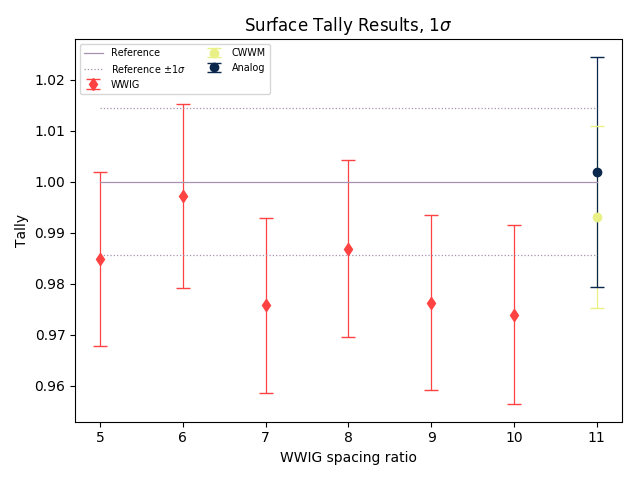
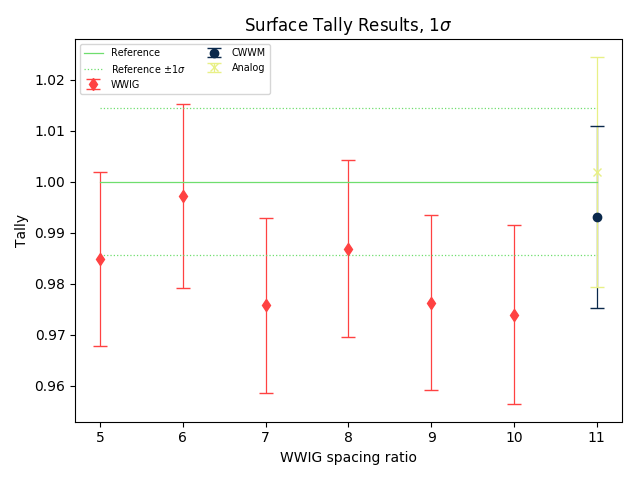
plot relative error and more consistent colors/markers

diff --git a/performance-analysis/analysis/plot_tally_data.py b/performance-analysis/analysis/plot_tally_data.py
@@ -5,13 +5,12 @@ import pandas as pd
 import glob
 import matplotlib.pyplot as plt
 
-colors = {0: '#FF4242', 1: '#235FA4', 2: '#6FDE6E', 'cwwm': '#E8F086',
-          'analog': '#0A284B', 'reference': '#A691AE', 3: '#0A284B'}
-color_r = {5: '#FF4242', 6: '#235FA4', 7: '#6FDE6E', 8: '#E8F086',
-           9: '#0A284B', 10: '#A691AE'}
-markers = {0: 'x', 1: 'x', 2: 'x', 'cwwm': 'o',
-           'analog': 'd', 'reference': 'D'}
-e_bounds = {0: '1.0000E-05', 1: '1.0000E-01', 2: '2.0000E+01', 3: 'total'}
+# colors: '#FF4242' '#A691AE' '#235FA4' '#E8F086',
+#         '#0A284B' '#6FDE6E' '#0A284B'
+colors = {'wwig': '#FF4242', 'analog': '#E8F086',
+          'cwwm': '#0A284B', 'reference': '#6FDE6E', }
+markers = {'wwig': 'd', 'cwwm': 'o',
+           'analog': 'x', 'reference': 'X'}
 ratios = [5, 6, 7, 8, 9, 10]
 dpi = 600
 lw = .9  # line width for plots
@@ -104,13 +103,13 @@ def plot_tally_ratios(df_output, pltratio=True, n_sigma=n_sigma):
         ana_y = ana_tally['tally total']
 
     plt.errorbar(tally_vals['ratio'], y, yerr=yerr,
-                 marker='d', lw=lw, capsize=cs, ls='',
-                 color=colors[0], label='WWIG')
+                 marker=markers['wwig'], lw=lw, capsize=cs, ls='',
+                 color=colors['wwig'], label='WWIG')
     plt.errorbar([xmax], cwwm_y, yerr=y_cwwm_err,
-                 marker='o', lw=lw, capsize=cs, ls='',
+                 marker=markers['cwwm'], lw=lw, capsize=cs, ls='',
                  color=colors['cwwm'], label='CWWM')
     plt.errorbar([xmax], ana_y, yerr=y_ana_err,
-                 marker='o', lw=lw, capsize=cs, ls='',
+                 marker=markers['analog'], lw=lw, capsize=cs, ls='',
                  color=colors['analog'], label='Analog')
     plt.plot([ratios[0], xmax], ref_tally_plt,
              color=colors['reference'], ls='-', lw=lw, label='Reference')
@@ -175,8 +174,8 @@ def plot_tally_refinement(df_output, df_measure, refinement,
     plt.figure()
     plt.errorbar(df[measurement], df['tally total'],
                  yerr=df['tally total']*df['error total'],
-                 marker='d', lw=lw, capsize=cs, ls='',
-                 color=colors[0], label='WWIG')
+                 marker=markers['wwig'], lw=lw, capsize=cs, ls='',
+                 color=colors['wwig'], label='WWIG')
     xmin = min(df[measurement])
     xmax = max(df[measurement])
     plt.plot([xmin, xmax], ref_tally_plt,
@@ -216,22 +215,22 @@ def plot_ww_efficiency_ratio(df_output):
     ax[0][0].plot([5, 10], cwwm_ww, marker='', ls=':',
                   label='CWWM', color=colors['cwwm'])
     ax[0][0].plot(df_wwig['ratio'], df_wwig['WW check efficiency'],
-                  marker='d', ls='', label='WWIG', color=colors[0])
+                  marker=markers['wwig'], ls='', label='WWIG', color=colors['wwig'])
     ax[0][0].set_title('Total WW Efficiency', fontsize='small')
 
     ax[0][1].plot([5, 10], cwwm_lt, marker='', ls=':', color=colors['cwwm'])
     ax[0][1].plot(df_wwig['ratio'], df_wwig['Splits < C_u'],
-                  marker='d', ls='', label='', color=colors[0])
+                  marker=markers['wwig'], ls='', label='', color=colors['wwig'])
     ax[0][1].set_title('$N_{splits}$ < C_u', fontsize='small')
 
     ax[1][0].plot([5, 10], cwwm_eq, marker='', ls=':', color=colors['cwwm'])
     ax[1][0].plot(df_wwig['ratio'], df_wwig['Splits = C_u'],
-                  marker='d', ls='', label='', color=colors[0])
+                  marker=markers['wwig'], ls='', label='', color=colors['wwig'])
     ax[1][0].set_title('$N_{splits}$ = C_u', fontsize='small')
 
     ax[1][1].plot([5, 10], cwwm_gt, marker='', ls=':', color=colors['cwwm'])
     ax[1][1].plot(df_wwig['ratio'], df_wwig['Splits > C_u'],
-                  marker='d', ls='', label='', color=colors[0])
+                  marker=markers['wwig'], ls='', label='', color=colors['wwig'])
     ax[1][1].set_title('$N_{splits}$ > C_u', fontsize='small')
 
     # labels
@@ -274,25 +273,25 @@ def plot_ww_efficiency_refine(df_output, df_rough):
     # ax[0][0].plot([xmin, xmax], cwwm_ww, marker='', ls=':',
     #               label='CWWM', color=colors['cwwm'])
     ax[0][0].plot(df_wwig['average roughness'], df_wwig['WW check efficiency'],
-                  marker='d', ls='', label='WWIG', color=colors[0])
+                  marker=markers['wwig'], ls='', label='WWIG', color=colors['wwig'])
     ax[0][0].set_title('Total WW Efficiency', fontsize='small')
 
     # ax[0][1].plot([xmin, xmax], cwwm_lt, marker='',
     #               ls=':', color=colors['cwwm'])
     ax[0][1].plot(df_wwig['average roughness'], df_wwig['Splits < C_u'],
-                  marker='d', ls='', label='', color=colors[0])
+                  marker=markers['wwig'], ls='', label='', color=colors['wwig'])
     ax[0][1].set_title('$N_{splits}$ < C_u', fontsize='small')
 
     # ax[1][0].plot([xmin, xmax], cwwm_eq, marker='',
     #               ls=':', color=colors['cwwm'])
     ax[1][0].plot(df_wwig['average roughness'], df_wwig['Splits = C_u'],
-                  marker='d', ls='', label='', color=colors[0])
+                  marker=markers['wwig'], ls='', label='', color=colors['wwig'])
     ax[1][0].set_title('$N_{splits}$ = C_u', fontsize='small')
 
     # ax[1][1].plot([xmin, xmax], cwwm_gt, marker='',
     #               ls=':', color=colors['cwwm'])
     ax[1][1].plot(df_wwig['average roughness'], df_wwig['Splits > C_u'],
-                  marker='d', ls='', label='', color=colors[0])
+                  marker=markers['wwig'], ls='', label='', color=colors['wwig'])
     ax[1][1].set_title('$N_{splits}$ > C_u', fontsize='small')
 
     # labels
@@ -334,8 +333,8 @@ def plot_fom(df_output, df_measure, refinement):
                   output_key], right_on=[refine_key])
 
     plt.figure()
-    plt.plot(df[measurement], df['fom'], marker='d', ls='',
-             color=colors[0], label='WWIG')
+    plt.plot(df[measurement], df['fom'], marker=markers['wwig'], ls='',
+             color=colors['wwig'], label='WWIG')
 
     # labels
     ylabel = 'FOM'
@@ -345,6 +344,110 @@ def plot_fom(df_output, df_measure, refinement):
     plt.ylabel(ylabel)
     plt.tight_layout()
     save_name = 'images/fom_{}.png'.format(refinement)
+    plt.savefig(save_name)
+
+
+def plot_relative_error_ratio(df_output):
+    plt.figure()
+
+    xmax = 11  # for location of the analog, reference, and cwwm results
+    ref_err = df_output.loc[df_output['mode'] == 'reference']['error total']
+    cwwm_err = df_output.loc[df_output['mode'] == 'cwwm']['error total']
+    ana_err = df_output.loc[df_output['mode'] == 'analog']['error total']
+    ref_err_plt = np.full(2, float(ref_err))
+    cwwm_err_plt = np.full(2, float(cwwm_err))
+    ana_err_plt = np.full(2, float(ana_err))
+
+    # get wwig relative errors
+    df_sub2 = df_output.loc[df_output['mode'] == 'wwig'].loc[
+        df_output['tally total'].notnull()]
+    wwig_err = df_sub2[['error total', 'ratio']]
+
+    plt.plot(wwig_err['ratio'], wwig_err['error total'],
+             marker=markers['wwig'],
+             color=colors['wwig'], ls='', lw=lw, label='WWIG')
+    plt.plot([ratios[0], xmax], ref_err_plt,
+             color=colors['reference'], ls=':', lw=lw, label='Reference')
+    plt.plot([ratios[0], xmax], cwwm_err_plt,
+             color=colors['cwwm'], ls=':', lw=lw,
+             label='CWWM')
+    plt.plot([ratios[0], xmax], ana_err_plt,
+             color=colors['analog'], ls=':', lw=lw, label='Analog')
+
+    # labels
+    ylabel = 'Relative Error'
+    xlabel = 'WWIG spacing ratio'
+    title = 'Surface Tally Relative Error'
+    plt.title(title)
+    plt.xlabel(xlabel)
+    plt.ylabel(ylabel)
+    plt.legend(loc='best', ncol=2,
+               fontsize='x-small')
+    plt.tight_layout()
+
+    save_name = 'images/relative_error_surface_ratios.png'
+    plt.savefig(save_name)
+
+
+def plot_relative_error_refine(df_output, df_measure, refinement):
+    if refinement == 'coarseness':
+        measurement = 'average coarseness'
+        refine_key = 'dc factor'
+        output_key = 'decimation'
+        xlabel = 'Triangle Density'
+    elif refinement == 'roughness':
+        measurement = 'average roughness'
+        refine_key = 'perturbation'
+        output_key = 'perturbation'
+        xlabel = 'Surface Roughness'
+
+    plt.figure()
+
+    ref_err = df_output.loc[df_output['mode'] == 'reference']['error total']
+    cwwm_err = df_output.loc[df_output['mode'] == 'cwwm']['error total']
+    ana_err = df_output.loc[df_output['mode'] == 'analog']['error total']
+    ref_err_plt = np.full(2, float(ref_err))
+    cwwm_err_plt = np.full(2, float(cwwm_err))
+    ana_err_plt = np.full(2, float(ana_err))
+
+    # get wwig relative errors
+    # get the output data for total tally
+    df_tally = df_output.loc[~df_output[output_key].isnull()][
+        ['error total', output_key]]
+
+    # get measurement data for total only
+    df_refine = df_measure.loc[df_measure['group'] == 'total'][
+        [refine_key, measurement]]
+
+    # join with the measurement tally on the output_key and refine_key
+    wwig_err = pd.merge(df_tally, df_refine, how='left', left_on=[
+                        output_key], right_on=[refine_key])
+
+    xmin = min(wwig_err[measurement])
+    xmax = max(wwig_err[measurement])
+
+    plt.plot(wwig_err[measurement], wwig_err['error total'],
+             marker=markers['wwig'],
+             color=colors['wwig'], ls='', lw=lw, label='WWIG')
+    plt.plot([xmin, xmax], ref_err_plt,
+             color=colors['reference'], ls=':', lw=lw, label='Reference')
+    plt.plot([xmin, xmax], cwwm_err_plt,
+             color=colors['cwwm'], ls=':', lw=lw,
+             label='CWWM')
+    plt.plot([xmin, xmax], ana_err_plt,
+             color=colors['analog'], ls=':', lw=lw, label='Analog')
+
+    # labels
+    ylabel = 'Relative Error'
+    title = 'Surface Tally Relative Error'
+    plt.title(title)
+    plt.xlabel(xlabel)
+    plt.ylabel(ylabel)
+    plt.legend(loc='best', ncol=2,
+               fontsize='x-small')
+    plt.tight_layout()
+
+    save_name = 'images/relative_error_surface_{}.png'.format(refinement)
     plt.savefig(save_name)
 
 
@@ -388,5 +491,10 @@ if __name__ == '__main__':
     # plot fom vs coarseness / coarseness
     plot_fom(df_output, df_coarse, 'coarseness')
     plot_fom(df_output, df_rough, 'roughness')
+
+    # plot relative error for surface tally
+    plot_relative_error_ratio(df_output)
+    plot_relative_error_refine(df_output, df_coarse, 'coarseness')
+    plot_relative_error_refine(df_output, df_rough, 'roughness')
 
     plt.show()
